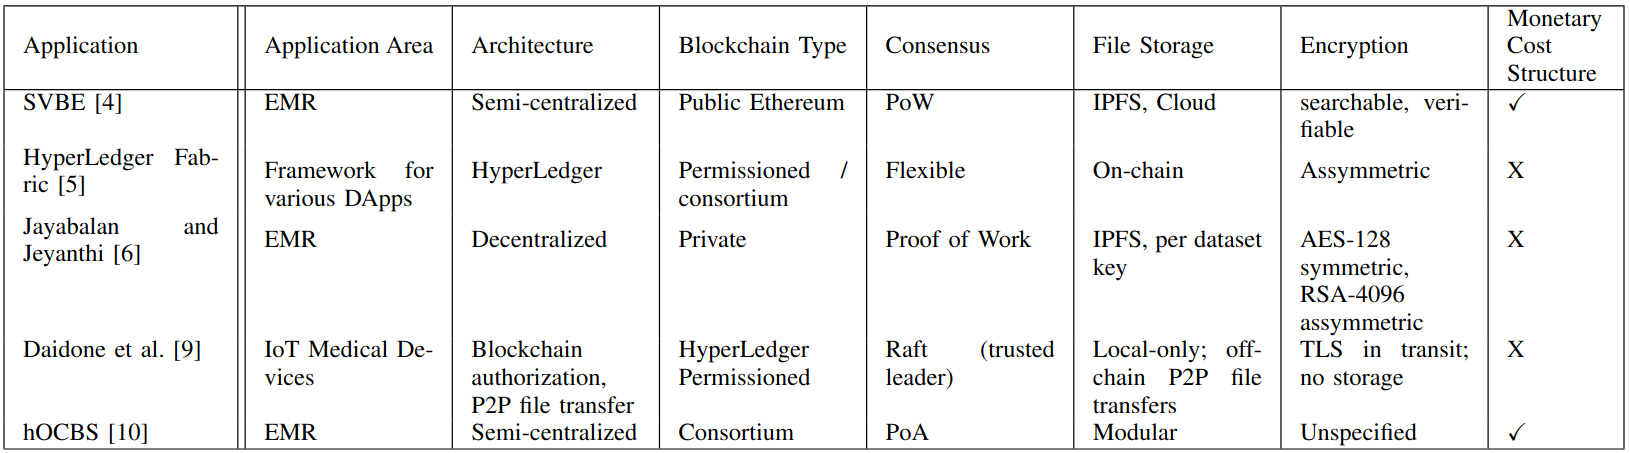
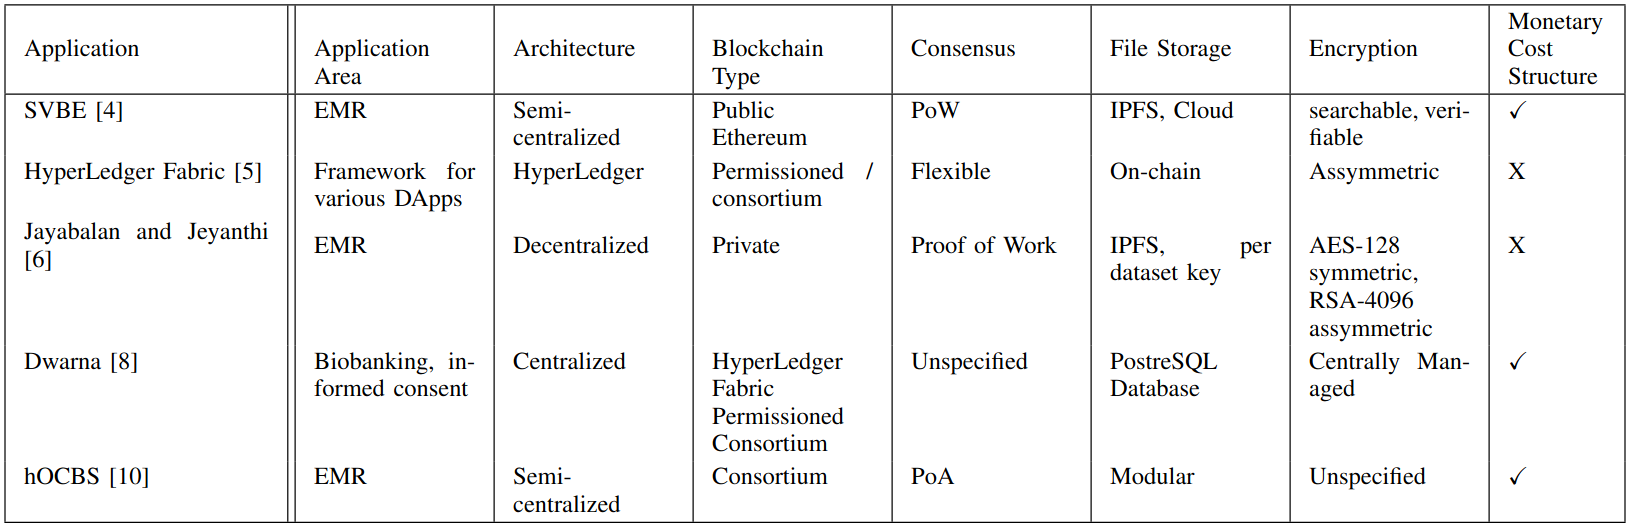
updated final slides

diff --git a/index.html b/index.html
@@ -3,7 +3,7 @@
 
 <head>
     <meta charset="utf-8">
-    <title>Presentation</title>
+    <title>Decentralized Protocols in Healthcare</title>
     <meta name="viewport" content="width=device-width, initial-scale=1.0, maximum-scale=1.0, user-scalable=no">
     <link rel="icon" type="image/png" href="/favicon.png">
     <link rel="stylesheet" href="https://cdnjs.cloudflare.com/ajax/libs/reveal.js/4.4.0/reveal.min.css"

diff --git a/final.md b/final.md
@@ -101,6 +101,26 @@ Notes:
 
 Here are more applications
 
+- SVBE
+    - searchable and verifiable encryption
+    - required a second copy of all data on a cloud server
+- HyperLedger
+    - explored use of HyperLedger Fabric
+    - tried storing files on chain, inefficient
+    - text files only, base64
+- Jayabalan and Jeyanthi
+    - lean and decentralized approach
+    - very detailed and well thought out
+    - PoW transferred the cost to users
+- Dwarna
+    - informed consent
+    - fully centralized
+    - blockchain used to define permissions
+- hOBCS
+    - consortium for private access
+    - used PoA for consensus - depended on centralized entity to provide infrastructure
+    - modular storage options - IPFS, private server
+
 --
 
 ## Comparison of Applications
